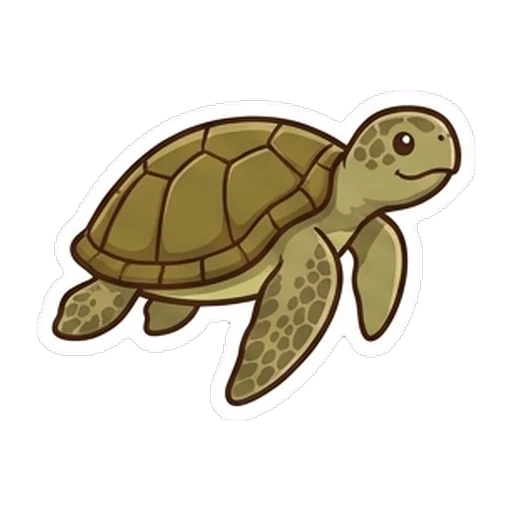
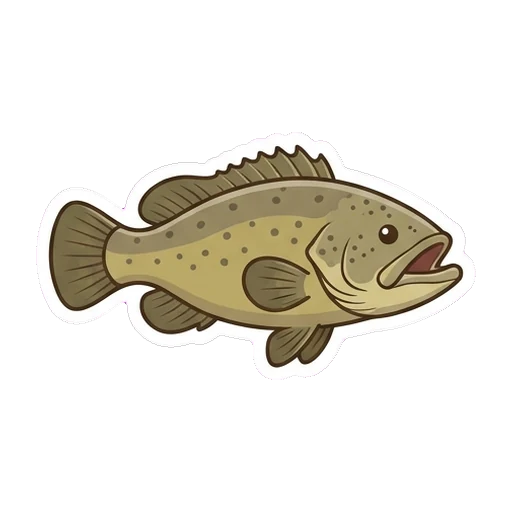
Animais ameaçados: troca a tartaruga-verde (nº 30) pelo mero
A tartaruga-verde saiu da lista de ameaçadas da IUCN em 2025 (Pouco preocupante).
O mero é vulnerável no mundo e criticamente em perigo no Brasil; a pesca é proibida desde 2002.

Claude-Session: https://claude.ai/code/session_014sDEFxRnPDELgwKfjTxS1Z

Changed region(s): [[0.0938, 0.1875, 0.9062, 0.8125]]

diff --git a/ameacados.js b/ameacados.js
@@ -15,7 +15,7 @@ var D=[
  ["Panda-gigante","vu"],["Tigre","en"],["Orangotango","cr"],["Gorila-de-montanha","en"],["Rinoceronte-negro","cr"],["Elefante-asiático","en"],
  ["Leopardo-das-neves","vu"],["Lêmure-catta","en"],["Coala","vu"],["Diabo-da-tasmânia","en"],["Okapi","en"],["Pangolim-malaio","cr"],
  // Folha 3: mares
- ["Baleia-azul","en"],["Vaquita","cr"],["Dugongo","vu"],["Foca-monge-havaiana","en"],["Tartaruga-de-couro","vu"],["Tartaruga-verde","en"],
+ ["Baleia-azul","en"],["Vaquita","cr"],["Dugongo","vu"],["Foca-monge-havaiana","en"],["Tartaruga-de-couro","vu"],["Mero","vu"],
  ["Tartaruga-de-pente","cr"],["Tubarão-martelo","cr"],["Tubarão-baleia","en"],["Raia-manta","en"],["Cavalo-marinho","vu"],["Albatroz-errante","vu"],
  // Folha 4: aves, répteis, anfíbios e insetos
  ["Kakapo","cr"],["Condor-dos-Andes","vu"],["Águia-filipina","cr"],["Pinguim-imperador","en"],["Dragão-de-komodo","en"],["Gavial","cr"],
@@ -56,7 +56,7 @@ var F=[
  ["Mares quentes do Oceano Índico e do Pacífico","ervas marinhas","2,5 a 3 m","250 a 400 kg","perde as ervas marinhas e é pego em redes","Áreas marinhas protegidas cuidam das ervas de que ele se alimenta.","Dizem que os marinheiros antigos confundiam o dugongo com sereias."],
  ["Ilhas do Havaí, no Oceano Pacífico","peixes, lulas e polvos","2,1 a 2,4 m","170 a 270 kg","fica preso em redes e perde as praias","Voluntários protegem os filhotes nas praias, e a população vem crescendo devagar.","Descansa nas praias, e as pessoas devem observar de longe, para não assustar."],
  ["Mares tropicais e temperados do mundo. No Brasil desova no Espírito Santo","águas-vivas","1,5 a 2 m","250 a 700 kg","engole sacos plásticos e morre em redes de pesca","O Projeto Tamar vigia as praias onde elas põem os ovos.","É a maior tartaruga do mundo e mergulha a mais de 1.000 m de profundidade."],
- ["Mares tropicais do mundo, inclusive o do Brasil","algas e ervas marinhas, quando adulta","1 a 1,5 m","110 a 190 kg","perde as praias e é pega em redes","O Projeto Tamar protege os ninhos e solta os filhotes no mar.","O nome vem da cor da gordura, e não da casca."],
+ ["Recifes, mangues e costas quentes do Atlântico, inclusive o litoral do Brasil","caranguejos, lagostas, polvos e peixes","2 a 2,5 m","200 a 400 kg","foi pescado demais e perde os mangues onde os filhotes crescem. No mundo é considerado vulnerável","A pesca do mero é proibida no Brasil desde 2002, e proteger os mangues ajuda os filhotes.","É um dos maiores peixes de recife do Atlântico e faz um ronco grave que dá para ouvir debaixo d'água."],
  ["Mares tropicais do mundo, inclusive o do Brasil","esponjas do mar","80 a 90 cm","45 a 70 kg","foi caçada pelo casco bonito","A venda de objetos de casco de tartaruga é proibida em quase todo o mundo.","O bico fino e pontudo alcança esponjas escondidas nos recifes."],
  ["Mares tropicais e quentes do mundo, inclusive o litoral do Brasil","peixes, lulas e raias","3 a 4 m","80 a 150 kg","é pescado demais, por exemplo pelas nadadeiras","Limites de pesca e a proibição de cortar nadadeiras protegem os tubarões.","Os olhos nas pontas da cabeça dão uma visão muito ampla."],
  ["Mares quentes e tropicais do mundo","plâncton e peixes pequenos","10 a 12 m","10 a 20 t","é pescado demais e atingido por barcos","Áreas de proteção e passeios com regras ajudam os tubarões-baleia.","É o maior peixe do mundo, mas só come bichinhos minúsculos. As pintas são únicas em cada um."],
@@ -82,7 +82,7 @@ var F=[
 ];
 
 var NIVEL={ew:"Extinto na natureza",cr:"Criticamente em perigo",en:"Em perigo",vu:"Vulnerável",nt:"Quase ameaçado"};
-var STATUS_EXTRA={34:"Vulnerável no Brasil"};   // Cavalo-marinho: vulnerável na lista do Brasil, quase ameaçado no mundo
+var STATUS_EXTRA={34:"Vulnerável no Brasil",29:"Criticamente em perigo no Brasil"};   // Cavalo-marinho: vulnerável na lista do Brasil (quase ameaçado no mundo). Mero: crítico no Brasil (vulnerável no mundo)
 function status(i){
   var d=D[i],n=d[1];
   if(STATUS_EXTRA[i])return STATUS_EXTRA[i];
